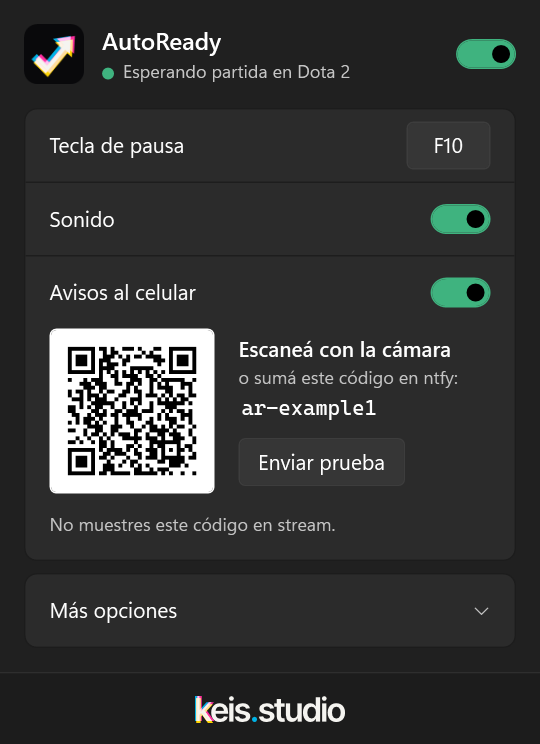
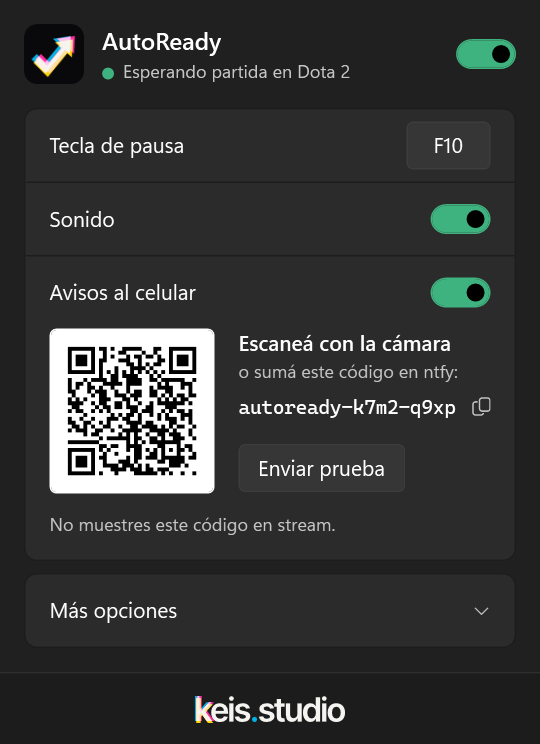
Make phone setup clearer with an illustrated ntfy tutorial
- New codes look like autoready-k7m2-q9xp: recognizable in the ntfy
  list and easy to read; old ar-xxxxxxxx codes keep working
- Copy button next to the code in the panel
- Phone page: iPhone gets five short steps with drawings of what ntfy
  shows (tap +, paste in Topic name, Subscribe, Allow); Android keeps
  the one-tap connect plus a "do it by hand" fallback with the code
- Refresh screenshots and the social preview image

Changed region(s): [[0.4444, 0.4328, 0.9185, 0.5874], [0.1185, 0.4637, 0.2963, 0.6492], [0.4741, 0.6183, 0.7111, 0.6492]]

diff --git a/docs/phone/index.html b/docs/phone/index.html
@@ -19,13 +19,13 @@
     --r-ctl: 8px; --r-in: 6px; --r-card: 12px;
     --bg: #F3F3F3; --card: #FFFFFF; --stroke: #E5E5E5; --text: #1B1B1B; --muted: #5F5F5F;
     --fill: #1E7A52; --on-fill: #FFFFFF; --accent: #176B47; --soft: #E7F3EC; --code-bg: #F3F3F3;
-    --shadow: 0 1px 2px rgba(0,0,0,.04);
+    --shadow: 0 1px 2px rgba(0,0,0,.04); --mock-bg: #F7F7F7; --ring: rgba(30,122,82,.45); --ios-blue: #007AFF;
   }
   @media (prefers-color-scheme: dark) {
     :root {
       --bg: #161616; --card: #222222; --stroke: #2E2E2E; --text: #FFFFFF; --muted: #B5B5B5;
       --fill: #1E7A52; --on-fill: #FFFFFF; --accent: #5FD49E; --soft: #17301F; --code-bg: #2E2E2E;
-      --shadow: none;
+      --shadow: none; --mock-bg: #1B1B1B; --ring: rgba(95,212,158,.55); --ios-blue: #0A84FF;
     }
   }
   * { box-sizing: border-box; }
@@ -71,10 +71,33 @@
 
   .code { display: flex; align-items: center; justify-content: space-between; gap: 8px; margin-top: 14px;
           background: var(--code-bg); border: 1px solid var(--stroke); border-radius: var(--r-ctl); padding: 4px 4px 4px 14px; }
-  .code span { font: 600 18px/1 ui-monospace, "Cascadia Mono", "SF Mono", Menlo, Consolas, monospace; letter-spacing: .02em;
+  .code span { font: 600 20px/1 ui-monospace, "Cascadia Mono", "SF Mono", Menlo, Consolas, monospace; letter-spacing: .02em;
                overflow-wrap: anywhere; user-select: all; -webkit-user-select: all; }
   .code .btn { min-height: 44px; padding: 0 16px; border-radius: var(--r-in); font-size: 15px; background: var(--fill); color: var(--on-fill); }
   .code .btn.done { background: var(--soft); color: var(--accent); }
+
+  /* Dibujos de lo que se ve en el celular (no son capturas: maquetas simples y traducibles). */
+  .mock { margin-top: 14px; border: 1px solid var(--stroke); border-radius: 14px; background: var(--mock-bg); overflow: hidden;
+          font: 14px/1.3 -apple-system, system-ui, "Segoe UI", Roboto, sans-serif; color: var(--text); }
+  .mock .bar { display: flex; align-items: center; justify-content: space-between; padding: 12px 14px; border-bottom: 1px solid var(--stroke); font-weight: 600; }
+  .mock .plus { width: 30px; height: 30px; border-radius: 50%; display: grid; place-items: center; font-size: 22px; font-weight: 400;
+                color: var(--accent); box-shadow: 0 0 0 3px var(--ring); }
+  .mock .empty { padding: 18px 14px; color: var(--muted); font-size: 13px; }
+  .mock .sheet { padding: 14px; display: grid; gap: 10px; }
+  .mock .label { font-size: 12px; color: var(--muted); }
+  .mock .field { border: 1px solid var(--stroke); border-radius: 8px; padding: 9px 10px; background: var(--card);
+                 font: 600 15px ui-monospace, "SF Mono", Menlo, Consolas, monospace; }
+  .mock .go { justify-self: end; padding: 7px 14px; border-radius: 8px; font-weight: 600; color: var(--accent); box-shadow: 0 0 0 3px var(--ring); }
+  .mock.alert { text-align: center; max-width: 270px; margin-left: auto; margin-right: auto; }
+  .mock.alert .q { padding: 16px 16px 12px; font-weight: 600; }
+  .mock.alert .q small { display: block; font-weight: 400; color: var(--muted); font-size: 12px; margin-top: 4px; }
+  .mock.alert .opts { display: grid; grid-template-columns: 1fr 1fr; border-top: 1px solid var(--stroke); }
+  .mock.alert .opts span { padding: 11px 0; color: var(--ios-blue); }
+  .mock.alert .opts span + span { border-left: 1px solid var(--stroke); font-weight: 600; box-shadow: inset 0 0 0 3px var(--ring); border-bottom-right-radius: 13px; }
+  details.manual { margin-top: 16px; background: var(--card); border: 1px solid var(--stroke); border-radius: var(--r-card); padding: 0 18px; }
+  details.manual summary { cursor: pointer; padding: 14px 0; font-weight: 600; min-height: 44px; }
+  details.manual > div { padding: 0 0 18px; color: var(--muted); font-size: 15px; }
+  details.manual p { margin: 0 0 8px; }
 
   .note { margin: 20px 4px 0; font-size: 14px; color: var(--muted); text-align: center; }
   .note b { color: var(--text); font-weight: 600; }
@@ -122,8 +145,19 @@
         <div class="code"><span class="topic"></span><button class="btn copy" type="button" data-t="copy">Copy</button></div>
       </div></li>
       <li class="step"><div>
-        <h2 data-t="pasteTitle">Paste it in ntfy</h2>
-        <p data-t="pasteText">Open ntfy, tap <b>+</b>, paste the code and tap <b>Subscribe</b>. Allow notifications when it asks.</p>
+        <h2 data-t="plusTitle">Open ntfy and tap +</h2>
+        <p data-t="plusText">It's at the top right of the main screen.</p>
+        <div class="mock" aria-hidden="true"><div class="bar"><span>Subscribed topics</span><span class="plus">+</span></div><div class="empty" data-t="mockEmpty">No topics yet</div></div>
+      </div></li>
+      <li class="step"><div>
+        <h2 data-t="pasteTitle">Paste the code and tap Subscribe</h2>
+        <p data-t="pasteText">Touch and hold the <b>Topic name</b> box, tap <b>Paste</b>, then <b>Subscribe</b>. Leave the server as it is.</p>
+        <div class="mock" aria-hidden="true"><div class="sheet"><span class="label">Topic name</span><span class="field topic"></span><span class="go">Subscribe</span></div></div>
+      </div></li>
+      <li class="step"><div>
+        <h2 data-t="allowTitle2">Allow notifications</h2>
+        <p data-t="allowText2">When ntfy asks, tap <b>Allow</b>. Without this, nothing arrives.</p>
+        <div class="mock alert" aria-hidden="true"><div class="q" data-t="mockAsk">“ntfy” Would Like to Send You Notifications<small>Notifications may include alerts, sounds and icon badges.</small></div><div class="opts"><span data-t="mockNo">Don’t Allow</span><span data-t="mockYes">Allow</span></div></div>
       </div></li>
     </ol>
 
@@ -140,6 +174,10 @@
         <p data-t="allowText">If ntfy asks, tap <b>Allow</b>. That's it.</p>
       </div></li>
     </ol>
+    <details class="manual" id="android-manual" hidden><summary data-t="manualTitle">Didn't work? Do it by hand</summary><div>
+      <p data-t="manualText">Copy the code, open ntfy, tap <b>+</b>, paste it in <b>Topic name</b> and tap <b>Subscribe</b>.</p>
+      <div class="code"><span class="topic"></span><button class="btn copy" type="button" data-t="copy">Copy</button></div>
+    </div></details>
 
     <p class="note" data-t="done">Back on your PC, click <b>Send test</b> in AutoReady to check it works.</p>
   </section>
@@ -170,8 +208,17 @@
     copyTitle: "Copiá tu código",
     copyText: "Es tu canal privado. No lo compartas ni lo muestres en streams.",
     copy: "Copiar", copied: "Copiado",
-    pasteTitle: "Pegalo en ntfy",
-    pasteText: "Abrí ntfy, tocá <b>+</b>, pegá el código y tocá <b>Subscribe</b>. Cuando pregunte, permití las notificaciones.",
+    plusTitle: "Abrí ntfy y tocá +",
+    plusText: "Está arriba a la derecha de la pantalla principal.",
+    mockEmpty: "Todavía no hay temas",
+    pasteTitle: "Pegá el código y tocá Subscribe",
+    pasteText: "Mantené apretado el campo <b>Topic name</b>, tocá <b>Pegar</b> y después <b>Subscribe</b>. El servidor dejalo como está.",
+    allowTitle2: "Permití las notificaciones",
+    allowText2: "Cuando ntfy pregunte, tocá <b>Permitir</b>. Sin esto no llega nada.",
+    mockAsk: "“ntfy” quiere enviarte notificaciones<small>Las notificaciones pueden incluir alertas, sonidos y globos en el ícono.</small>",
+    mockNo: "No permitir", mockYes: "Permitir",
+    manualTitle: "¿No funcionó? Hacelo a mano",
+    manualText: "Copiá el código, abrí ntfy, tocá <b>+</b>, pegalo en <b>Topic name</b> y tocá <b>Subscribe</b>.",
     openTitle: "Conectá ntfy",
     openText: "Abre la app gratis ntfy y te suscribe. ¿No la tenés? Primero se abre Google Play: instalala y volvé a tocar.",
     open: "Conectar con ntfy",
@@ -193,29 +240,31 @@
     });
   }
 
-  // El codigo viene despues del # (no se manda a ningun servidor). Formato de AutoReady: ar- y 8 letras o numeros.
+  // El codigo viene despues del # (no se manda a ningun servidor). Formato de AutoReady: autoready-xxxx-xxxx (o ar-xxxxxxxx en los codigos viejos).
   var topic = decodeURIComponent(location.hash.slice(1)).trim();
-  if (!/^ar-[a-z0-9]{8}$/.test(topic)) { document.getElementById("invalid").hidden = false; return; }
+  if (!/^(ar-[a-z0-9]{8}|autoready-[a-z0-9]{4}-[a-z0-9]{4})$/.test(topic)) { document.getElementById("invalid").hidden = false; return; }
   document.getElementById("setup").hidden = false;
-  document.querySelector(".topic").textContent = topic;
+  [].forEach.call(document.querySelectorAll(".topic"), function (el) { el.textContent = topic; });
 
   // Android: un intent abre ntfy y suscribe (ntfy://), o Google Play si no esta instalada.
   document.getElementById("android-open").href =
     "intent://ntfy.sh/" + topic + "#Intent;scheme=ntfy;package=io.heckel.ntfy;end";
 
-  var copyBtn = document.querySelector(".copy");
-  copyBtn.addEventListener("click", function () {
-    function ok() {
-      copyBtn.textContent = T.copied; copyBtn.classList.add("done");
-      setTimeout(function () { copyBtn.textContent = T.copy; copyBtn.classList.remove("done"); }, 2500);
-    }
-    if (navigator.clipboard && navigator.clipboard.writeText) navigator.clipboard.writeText(topic).then(ok, fallback);
-    else fallback();
-    function fallback() {
-      var r = document.createRange(); r.selectNodeContents(document.querySelector(".topic"));
-      var s = getSelection(); s.removeAllRanges(); s.addRange(r);
-      try { if (document.execCommand("copy")) ok(); } catch (e) {}
-    }
+  [].forEach.call(document.querySelectorAll(".copy"), function (copyBtn) {
+    var span = copyBtn.parentNode.querySelector(".topic");
+    copyBtn.addEventListener("click", function () {
+      function ok() {
+        copyBtn.textContent = T.copied; copyBtn.classList.add("done");
+        setTimeout(function () { copyBtn.textContent = T.copy; copyBtn.classList.remove("done"); }, 2500);
+      }
+      function fallback() {
+        var r = document.createRange(); r.selectNodeContents(span);
+        var sel = getSelection(); sel.removeAllRanges(); sel.addRange(r);
+        try { if (document.execCommand("copy")) ok(); } catch (e) {}
+      }
+      if (navigator.clipboard && navigator.clipboard.writeText) navigator.clipboard.writeText(topic).then(ok, fallback);
+      else fallback();
+    });
   });
 
   // Pestaña segun el celular; se puede cambiar a mano si la deteccion falla.
@@ -224,6 +273,7 @@
   function show(os) {
     ["ios", "android"].forEach(function (o) {
       document.getElementById(o).hidden = o !== os;
+      if (o === "android") document.getElementById("android-manual").hidden = o !== os;
       document.getElementById("tab-" + o).setAttribute("aria-pressed", String(o === os));
     });
   }

diff --git a/src/Panel.cs b/src/Panel.cs
@@ -430,11 +430,28 @@ namespace AutoReady
             TextBox code = new TextBox
             {
                 Text = host.Cfg.NtfyTopic, IsReadOnly = true, BorderThickness = new Thickness(0), Background = Brushes.Transparent,
-                Foreground = theme.Text, FontFamily = new FontFamily("Cascadia Mono, Consolas"), FontSize = 14,
-                Padding = new Thickness(0), Margin = new Thickness(0, 4, 0, 0), CaretBrush = Brushes.Transparent,
+                Foreground = theme.Text, FontFamily = new FontFamily("Cascadia Mono, Consolas"), FontSize = 13,
+                Padding = new Thickness(-2, 0, 0, 0), Margin = new Thickness(0, 4, 0, 0), CaretBrush = Brushes.Transparent,
             };
             AutomationProperties.SetName(code, S.PhoneOrCode);
-            right.Children.Add(code);
+            // Boton de copiar al lado (por si se lo manda al celular por chat): el icono pasa a un tilde un momento.
+            TextBlock copyIcon = new TextBlock { Text = "", FontFamily = new FontFamily("Segoe Fluent Icons, Segoe MDL2 Assets"), FontSize = 14, HorizontalAlignment = HorizontalAlignment.Center, VerticalAlignment = VerticalAlignment.Center };
+            ClickArea copy = null;
+            copy = new ClickArea(theme, copyIcon, () =>
+            {
+                try { Clipboard.SetText(host.Cfg.NtfyTopic); } catch { return; }
+                copyIcon.Text = "";
+                System.Windows.Threading.DispatcherTimer back = new System.Windows.Threading.DispatcherTimer { Interval = TimeSpan.FromSeconds(2) };
+                back.Tick += (s2, e2) => { back.Stop(); copyIcon.Text = ""; };
+                back.Start();
+            }, S.CopyCode) { Width = 26, Height = 26, CornerRadius = new CornerRadius(4), Margin = new Thickness(2, 2, 0, 0), ToolTip = S.CopyCode };
+            copy.SetBackgrounds(Brushes.Transparent, theme.SubtleHover, theme.SubtlePressed);
+            copy.SetLabelColors(copyIcon, theme.TextSecondary, theme.Text, theme.TextSecondary);
+            StackPanel codeRow = new StackPanel { Orientation = Orientation.Horizontal };
+            code.VerticalAlignment = VerticalAlignment.Center;
+            codeRow.Children.Add(code);
+            codeRow.Children.Add(copy);
+            right.Children.Add(codeRow);
 
             TextBlock testText = null;
             ClickArea test = ClickArea.Make(theme, S.PhoneTest, () =>

diff --git a/src/Config.cs b/src/Config.cs
@@ -99,7 +99,10 @@ namespace AutoReady
         }
 
         // Los topics de ntfy.sh son publicos: quien sabe el nombre lo lee. Por eso uno aleatorio por usuario,
-        // corto para poder escribirlo en el celular y sin letras que se confunden (0/o, 1/l/i).
+        // con el nombre de la app adelante (asi se reconoce en la lista de ntfy) y dos grupos de 4 para leerlo de un vistazo
+        // (autoready-k7m2-q9xp), sin letras que se confunden (0/o, 1/l/i). Un numero corto no sirve: dos usuarios caerian en
+        // el mismo canal y cualquiera podria adivinarlo. Los codigos viejos (ar-xxxxxxxx) siguen valiendo: cambiarlos
+        // cortaria los avisos de quien ya se suscribio.
         static string NewTopic()
         {
             const string alphabet = "abcdefghjkmnpqrstuvwxyz23456789";
@@ -108,7 +111,7 @@ namespace AutoReady
                 rng.GetBytes(rnd);
             char[] chars = new char[8];
             for (int i = 0; i < 8; i++) chars[i] = alphabet[rnd[i] % alphabet.Length];
-            return "ar-" + new string(chars);   // 31^8: unos 850 mil millones de combinaciones
+            return "autoready-" + new string(chars, 0, 4) + "-" + new string(chars, 4, 4);   // 31^8: unos 850 mil millones de combinaciones
         }
 
         public void Save()

diff --git a/src/Strings.cs b/src/Strings.cs
@@ -44,6 +44,7 @@ namespace AutoReady
         public static string PhoneShowCode { get { return T("Mostrar código", "Show code"); } }
         public static string PhoneScan { get { return T("Escaneá con la cámara", "Scan with your camera"); } }
         public static string PhoneOrCode { get { return T("o sumá este código en ntfy:", "or add this code in ntfy:"); } }
+        public static string CopyCode { get { return T("Copiar código", "Copy code"); } }
         public static string PhoneSecret { get { return T("No muestres este código en stream.", "Don't show this code on stream."); } }
         public static string PhoneTest { get { return T("Enviar prueba", "Send test"); } }
         public static string PhoneSending { get { return T("Enviando…", "Sending…"); } }

diff --git a/AGENTS.md b/AGENTS.md
@@ -120,8 +120,8 @@ instalar nada. Consecuencias:
 - Todo texto visible va en `Strings.cs` (`S.*`), en español rioplatense (voseo) e inglés; nunca literales en la UI. Los logs quedan en un solo idioma. Textos genéricos: el nombre del juego entra como parámetro.
 
 ## Celular (ntfy)
-- Código aleatorio `ar-xxxxxxxx` (sin letras ambiguas). El QR del panel es `https://ntfy.sh/<código>`, que cualquier cámara
-  abre y que ya suscribe en la versión web.
+- Código aleatorio `autoready-xxxx-xxxx` (los viejos `ar-xxxxxxxx` siguen valiendo; sin letras ambiguas). El QR del panel abre `docs/phone/#<código>`: en Android
+  conecta ntfy de un toque y en iPhone es un tutorial con dibujos (instalar, copiar, +, pegar, Subscribe, permitir).
 - La app de ntfy para **iPhone no soporta links ni QR**; en Android funciona `ntfy://ntfy.sh/<código>`. Mejorar esto es #1.
 
 ## Trampas conocidas
